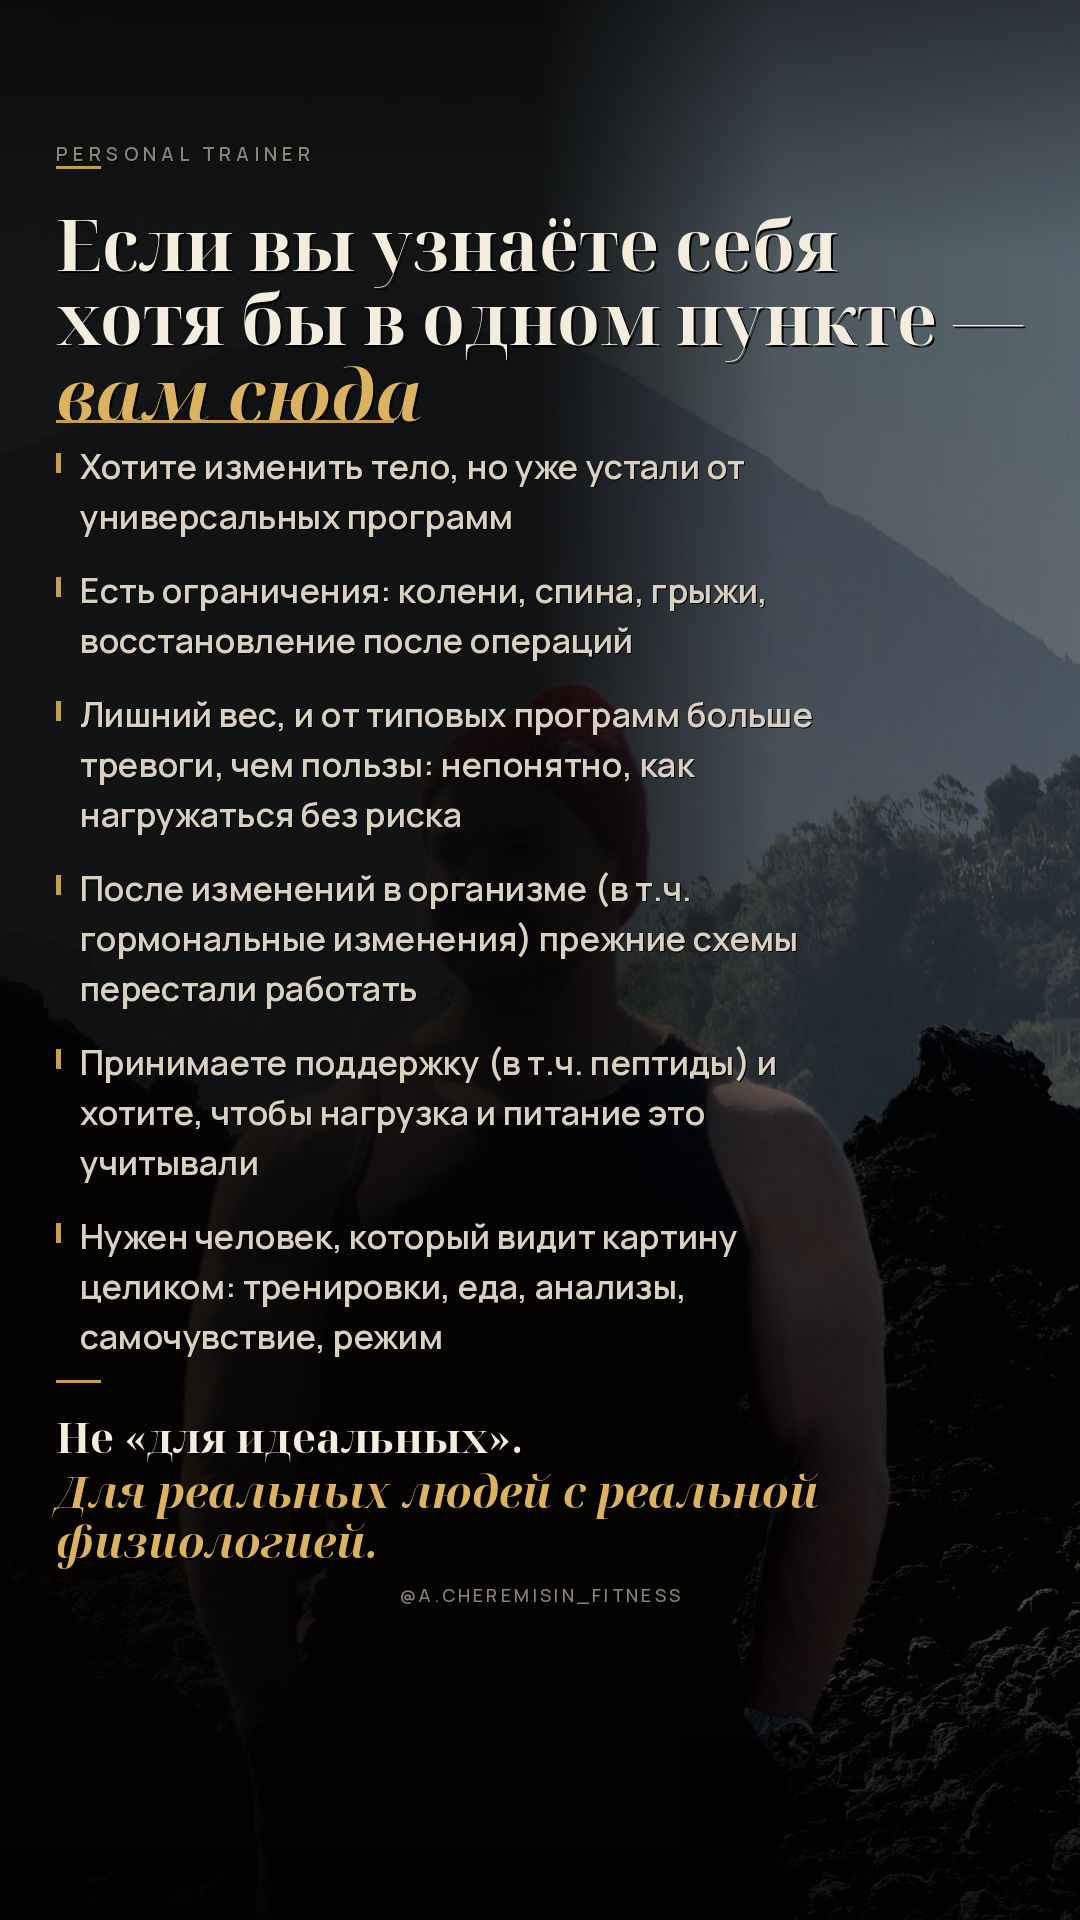
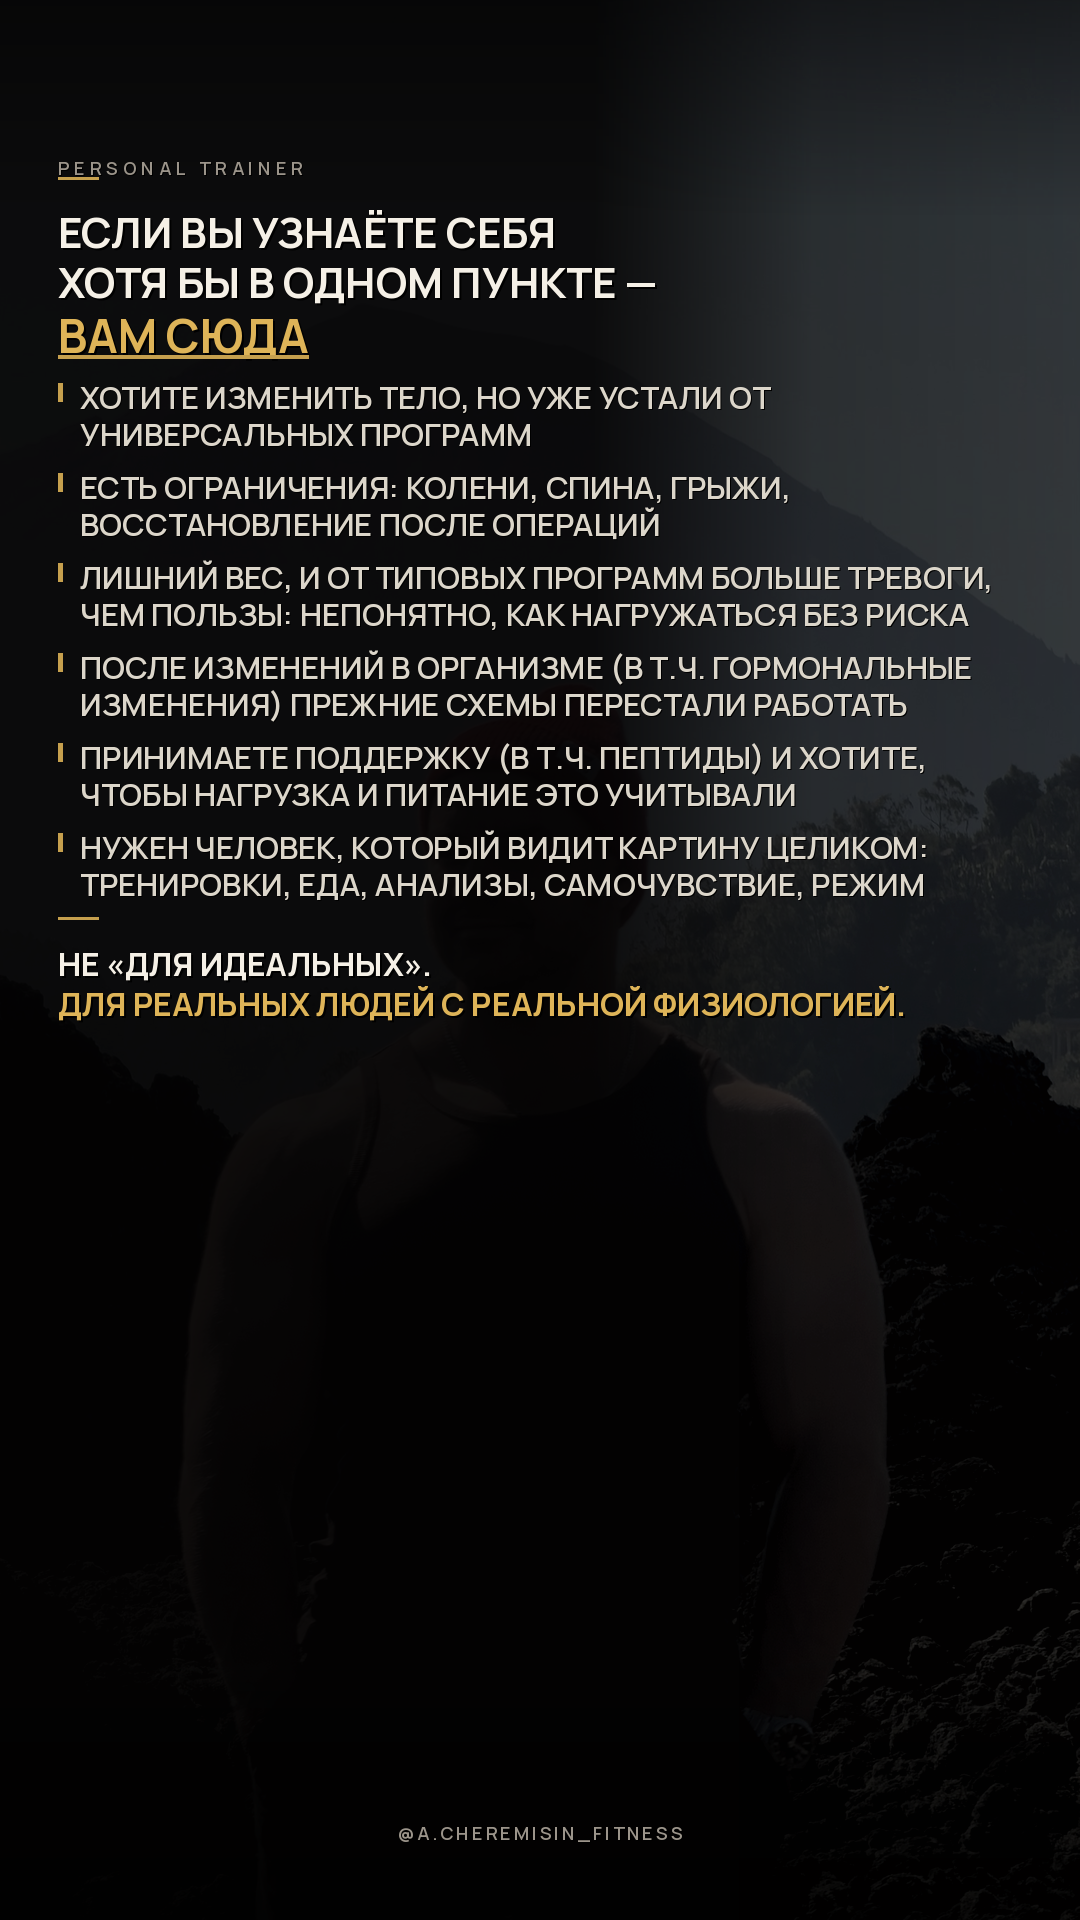
Tighten story layout: all-caps sans, larger type, darker underlay
Match annotated 3-zone placement with denser block spacing,
Manrope all-caps typography from the fitness story refs, and
a darker photo underlay for contrast.

diff --git a/create_story.py b/create_story.py
@@ -1,8 +1,7 @@
 #!/usr/bin/env python3
 """
-Premium Instagram Stories slide.
-Dark editorial underlay + Noto Serif Display (high-contrast Didone from refs).
-Larger type, even density — air between lines/blocks, no huge empty gaps.
+Instagram Stories slide — all-caps modern sans (ref style),
+3 tight zones, larger type, darker underlay.
 """
 
 from PIL import Image, ImageDraw, ImageFont, ImageEnhance
@@ -16,24 +15,23 @@ ART = Path("/opt/cursor/artifacts")
 OUT.mkdir(exist_ok=True)
 ART.mkdir(parents=True, exist_ok=True)
 
-CREAM = (244, 236, 220)
-CREAM_DIM = (218, 208, 192)
-GOLD = (220, 178, 96)
-GOLD_SOFT = (196, 158, 84)
-MUTED = (138, 132, 122)
+CREAM = (245, 240, 230)
+CREAM_DIM = (220, 214, 202)
+GOLD = (222, 180, 88)
+GOLD_SOFT = (198, 160, 78)
+MUTED = (155, 148, 138)
 
-NOTO = Path("/usr/share/fonts/truetype/noto")
-# Larger, more readable type
-font_hook = ImageFont.truetype(str(NOTO / "NotoSerifDisplay-Bold.ttf"), 70)
-font_hook_it = ImageFont.truetype(str(NOTO / "NotoSerifDisplay-BoldItalic.ttf"), 72)
-font_close = ImageFont.truetype(str(NOTO / "NotoSerifDisplay-Bold.ttf"), 42)
-font_close_it = ImageFont.truetype(str(NOTO / "NotoSerifDisplay-BoldItalic.ttf"), 44)
-font_body = ImageFont.truetype(str(FONTS / "MR-600.ttf"), 34)
-font_label = ImageFont.truetype(str(FONTS / "MR-600.ttf"), 19)
-font_handle = ImageFont.truetype(str(FONTS / "MR-500.ttf"), 18)
+# All-caps modern sans — Manrope (clean geometric, like ref templates)
+font_hook = ImageFont.truetype(str(FONTS / "MR-700.ttf"), 42)
+font_accent = ImageFont.truetype(str(FONTS / "MR-700.ttf"), 46)
+font_body = ImageFont.truetype(str(FONTS / "MR-600.ttf"), 31)
+font_close = ImageFont.truetype(str(FONTS / "MR-700.ttf"), 32)
+font_close_em = ImageFont.truetype(str(FONTS / "MR-700.ttf"), 32)
+font_label = ImageFont.truetype(str(FONTS / "MR-600.ttf"), 18)
+font_handle = ImageFont.truetype(str(FONTS / "MR-600.ttf"), 18)
 
 
-def cover_crop(img: Image.Image, tw: int, th: int, focus=(0.65, 0.28)) -> Image.Image:
+def cover_crop(img: Image.Image, tw: int, th: int, focus=(0.62, 0.30)) -> Image.Image:
     img = img.convert("RGB")
     sw, sh = img.size
     scale = max(tw / sw, th / sh)
@@ -48,35 +46,34 @@ def cover_crop(img: Image.Image, tw: int, th: int, focus=(0.65, 0.28)) -> Image.
 
 def make_underlay(photo: Image.Image, focus) -> Image.Image:
     base = cover_crop(photo, W, H, focus=focus)
-
-    # Slightly darker than previous pass
-    base = ImageEnhance.Brightness(base).enhance(0.60)
-    base = ImageEnhance.Color(base).enhance(0.55)
+    # Darker underlay — text pops harder
+    base = ImageEnhance.Brightness(base).enhance(0.48)
+    base = ImageEnhance.Color(base).enhance(0.48)
     base = ImageEnhance.Contrast(base).enhance(1.18)
 
-    warm = Image.new("RGB", (W, H), (8, 6, 5))
-    base = Image.blend(base, warm, 0.32)
+    warm = Image.new("RGB", (W, H), (6, 4, 3))
+    base = Image.blend(base, warm, 0.38)
     rgba = base.convert("RGBA")
 
     panel = Image.new("RGBA", (W, H), (0, 0, 0, 0))
     pd = ImageDraw.Draw(panel)
     for x in range(W):
         t = x / W
-        if t < 0.50:
+        if t < 0.55:
             a = 215
-        elif t < 0.72:
-            a = int(215 - (t - 0.50) / 0.22 * 150)
+        elif t < 0.75:
+            a = int(215 - (t - 0.55) / 0.20 * 130)
         else:
-            a = int(65 - (t - 0.72) / 0.28 * 30)
-        pd.line([(x, 0), (x, H)], fill=(4, 3, 2, max(20, a)))
+            a = int(85 - (t - 0.75) / 0.25 * 30)
+        pd.line([(x, 0), (x, H)], fill=(3, 2, 2, max(40, a)))
 
     vig = Image.new("RGBA", (W, H), (0, 0, 0, 0))
     vd = ImageDraw.Draw(vig)
-    for y in range(0, 260):
-        a = int(120 * (1 - y / 260) ** 1.05)
+    for y in range(0, 220):
+        a = int(120 * (1 - y / 220) ** 1.0)
         vd.line([(0, y), (W, y)], fill=(0, 0, 0, a))
     for y in range(1650, H):
-        a = int(165 * ((y - 1650) / (H - 1650)) ** 0.85)
+        a = int(160 * ((y - 1650) / (H - 1650)) ** 0.85)
         vd.line([(0, y), (W, y)], fill=(0, 0, 0, min(200, a)))
 
     out = Image.alpha_composite(rgba, panel)
@@ -106,101 +103,94 @@ def shadow_text(draw, xy, text, font, fill, offset=2):
     draw.text((x, y), text, font=font, fill=fill)
 
 
-def spaced_label(draw, text, font, xy, fill, tracking=5):
+def spaced(draw, text, font, xy, fill, tracking=3, offset=1):
     x, y = xy
     for ch in text:
-        shadow_text(draw, (x, y), ch, font, fill, offset=1)
+        shadow_text(draw, (x, y), ch, font, fill, offset=offset)
         x += draw.textlength(ch, font=font) + tracking
     return x
 
 
-def build(photo_path: Path, out_name: str, focus=(0.65, 0.28)):
+def build(photo_path: Path, out_name: str, focus=(0.62, 0.30)):
     base = make_underlay(Image.open(photo_path), focus)
     canvas = base.convert("RGBA")
     draw = ImageDraw.Draw(canvas)
 
-    margin = 56
-    content_w = 800
-    y0 = 140
-    target_bottom = 1765
+    margin = 58
+    content_w = 960
+    y = 155
 
-    bullets = [
-        "Хотите изменить тело, но уже устали от универсальных программ",
-        "Есть ограничения: колени, спина, грыжи, восстановление после операций",
-        "Лишний вес, и от типовых программ больше тревоги, чем пользы: непонятно, как нагружаться без риска",
-        "После изменений в организме (в т.ч. гормональные изменения) прежние схемы перестали работать",
-        "Принимаете поддержку (в т.ч. пептиды) и хотите, чтобы нагрузка и питание это учитывали",
-        "Нужен человек, который видит картину целиком: тренировки, еда, анализы, самочувствие, режим",
-    ]
-    wrapped = [wrap_text(item, font_body, content_w - 30, draw) for item in bullets]
-    close_lines = wrap_text(
-        "Для реальных людей с реальной физиологией.", font_close_it, content_w, draw
-    )
-    body_lines = sum(len(lines) for lines in wrapped)
-
-    # Base metrics, then absorb leftover into line_h + modest block gaps
-    hook_lh, accent_h, close_lh = 74, 98, 50
-    header_h = 56
-    close_block = 10 + 28 + 52 + close_lh * len(close_lines)
-    base_line_h, base_gap = 40, 14
-    fixed_base = (
-        header_h
-        + hook_lh * 2
-        + accent_h
-        + body_lines * base_line_h
-        + len(bullets) * base_gap
-        + close_block
-    )
-    leftover = max(0, target_bottom - y0 - fixed_base - 55)
-    # Prefer readable leading over big empty gaps
-    extra_line = min(10, leftover // max(1, body_lines))
-    leftover -= extra_line * body_lines
-    extra_gap = min(10, leftover // max(1, len(bullets)))
-    line_h = base_line_h + extra_line
-    block_gap = base_gap + extra_gap
-
-    y = y0
-    spaced_label(draw, "PERSONAL TRAINER", font_label, (margin, y), MUTED, tracking=5)
+    # ── ZONE 1: header ──────────────────────────────────────────
+    spaced(draw, "PERSONAL TRAINER", font_label, (margin, y), MUTED, tracking=5)
+    y += 22
+    draw.rectangle([margin, y, margin + 40, y + 2], fill=GOLD_SOFT)
     y += 26
-    draw.rectangle([margin, y, margin + 44, y + 2], fill=GOLD_SOFT)
-    y += 30
 
-    for line in ("Если вы узнаёте себя", "хотя бы в одном пункте —"):
+    hook_lines = [
+        "ЕСЛИ ВЫ УЗНАЁТЕ СЕБЯ",
+        "ХОТЯ БЫ В ОДНОМ ПУНКТЕ —",
+    ]
+    for line in hook_lines:
         shadow_text(draw, (margin, y), line, font_hook, CREAM, offset=2)
-        y += hook_lh
+        y += 50
 
-    shadow_text(draw, (margin, y), "вам сюда", font_hook_it, GOLD, offset=2)
-    aw = draw.textlength("вам сюда", font=font_hook_it)
-    draw.rectangle([margin, y + 76, margin + aw * 0.92, y + 78], fill=GOLD_SOFT)
-    y += accent_h
+    shadow_text(draw, (margin, y), "ВАМ СЮДА", font_accent, GOLD, offset=2)
+    aw = draw.textlength("ВАМ СЮДА", font=font_accent)
+    draw.rectangle([margin, y + 52, margin + aw, y + 55], fill=GOLD_SOFT)
+    y += 72
 
-    for i, lines in enumerate(wrapped):
-        draw.rectangle([margin, y + 11, margin + 4, y + 30], fill=GOLD_SOFT)
-        tx = margin + 24
+    # ── ZONE 2: body list — air between lines, compact between items
+    bullets = [
+        "ХОТИТЕ ИЗМЕНИТЬ ТЕЛО, НО УЖЕ УСТАЛИ ОТ УНИВЕРСАЛЬНЫХ ПРОГРАММ",
+        "ЕСТЬ ОГРАНИЧЕНИЯ: КОЛЕНИ, СПИНА, ГРЫЖИ, ВОССТАНОВЛЕНИЕ ПОСЛЕ ОПЕРАЦИЙ",
+        "ЛИШНИЙ ВЕС, И ОТ ТИПОВЫХ ПРОГРАММ БОЛЬШЕ ТРЕВОГИ, ЧЕМ ПОЛЬЗЫ: НЕПОНЯТНО, КАК НАГРУЖАТЬСЯ БЕЗ РИСКА",
+        "ПОСЛЕ ИЗМЕНЕНИЙ В ОРГАНИЗМЕ (В Т.Ч. ГОРМОНАЛЬНЫЕ ИЗМЕНЕНИЯ) ПРЕЖНИЕ СХЕМЫ ПЕРЕСТАЛИ РАБОТАТЬ",
+        "ПРИНИМАЕТЕ ПОДДЕРЖКУ (В Т.Ч. ПЕПТИДЫ) И ХОТИТЕ, ЧТОБЫ НАГРУЗКА И ПИТАНИЕ ЭТО УЧИТЫВАЛИ",
+        "НУЖЕН ЧЕЛОВЕК, КОТОРЫЙ ВИДИТ КАРТИНУ ЦЕЛИКОМ: ТРЕНИРОВКИ, ЕДА, АНАЛИЗЫ, САМОЧУВСТВИЕ, РЕЖИМ",
+    ]
+
+    line_h = 37   # air inside wrapped lines
+    item_gap = 16  # air between points — no giant voids
+
+    for item in bullets:
+        lines = wrap_text(item, font_body, content_w - 30, draw)
+        draw.rectangle([margin, y + 8, margin + 4, y + 26], fill=GOLD_SOFT)
+        tx = margin + 22
         for line in lines:
             shadow_text(draw, (tx, y), line, font_body, CREAM_DIM, offset=1)
             y += line_h
-        # full gap between points; smaller step into closing block
-        y += block_gap if i < len(wrapped) - 1 else max(10, block_gap // 2)
+        y += item_gap
 
-    y += 6
-    draw.rectangle([margin, y, margin + 44, y + 2], fill=GOLD_SOFT)
-    y += 28
-    shadow_text(draw, (margin, y), "Не «для идеальных».", font_close, CREAM, offset=2)
-    y += 52
-    for line in close_lines:
-        shadow_text(draw, (margin, y), line, font_close_it, GOLD, offset=2)
-        y += close_lh
+    y += 2
+    draw.rectangle([margin, y, margin + 40, y + 2], fill=GOLD_SOFT)
+    y += 24
+    shadow_text(draw, (margin, y), "НЕ «ДЛЯ ИДЕАЛЬНЫХ».", font_close, CREAM, offset=2)
+    y += 40
+    shadow_text(
+        draw,
+        (margin, y),
+        "ДЛЯ РЕАЛЬНЫХ ЛЮДЕЙ С РЕАЛЬНОЙ ФИЗИОЛОГИЕЙ.",
+        font_close_em,
+        GOLD,
+        offset=2,
+    )
 
+    # ── ZONE 3: footer ──────────────────────────────────────────
     handle = "@A.CHEREMISIN_FITNESS"
     total = sum(draw.textlength(ch, font=font_handle) + 3 for ch in handle) - 3
-    handle_y = min(H - 86, y + 22)
-    spaced_label(draw, handle, font_handle, ((W - total) / 2, handle_y), MUTED, tracking=3)
+    spaced(
+        draw,
+        handle,
+        font_handle,
+        ((W - total) / 2, H - 100),
+        MUTED,
+        tracking=3,
+    )
 
     final = canvas.convert("RGB")
     for dest in (OUT / out_name, ART / out_name):
         final.save(dest, "PNG")
-        print("saved", dest, "end=", y, "gap=", block_gap)
+        print("saved", dest)
     return OUT / out_name
 
 
@@ -208,7 +198,7 @@ if __name__ == "__main__":
     build(
         ASSETS / "fc132508-741c-4fd8-84fd-e0942788c9f4.jpg",
         "cheremisin_story_slide.png",
-        focus=(0.62, 0.28),
+        focus=(0.62, 0.30),
     )
     build(
         ASSETS / "a84e4e80-0540-4281-af77-7a25b5ded17f.jpg",
